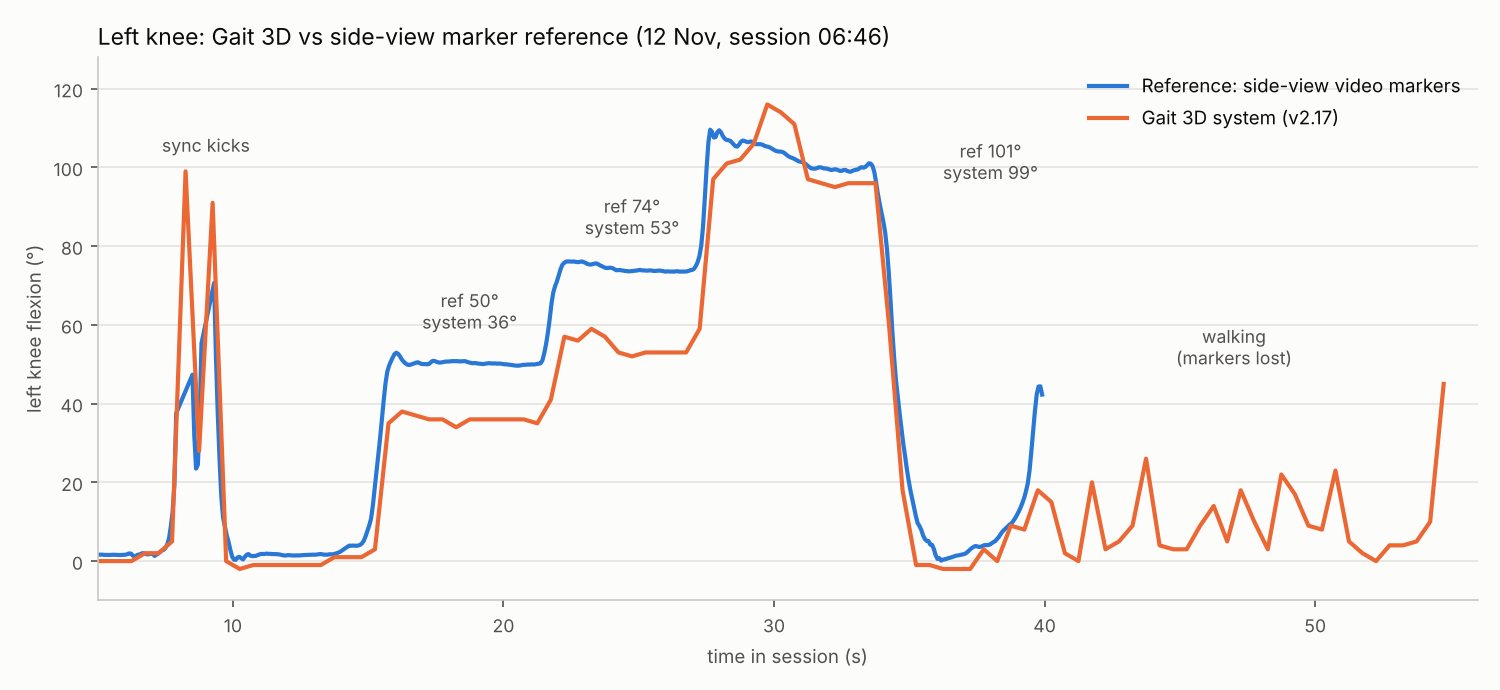
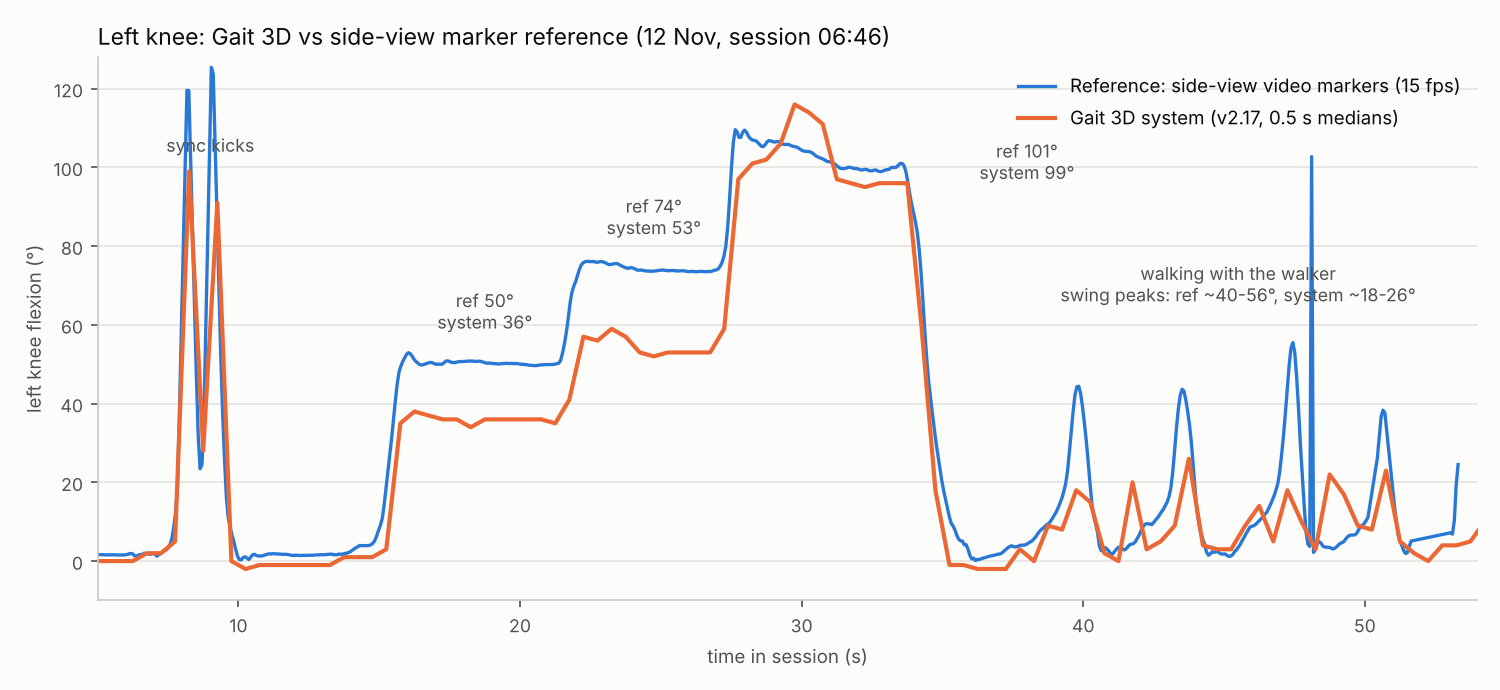
validation: walking now tracked (markers on dark fabric); swing peaks under-read ~50 %
Claude-Session: https://claude.ai/code/session_013HKQ94kXFs9QUfShXoLNG2

diff --git a/scripts/validate_markers_track.py b/scripts/validate_markers_track.py
@@ -1,36 +1,36 @@
-import cv2, numpy as np, json
+import cv2, numpy as np, json, itertools
 from validate_markers_detect import detect
 c = cv2.VideoCapture('v.mov'); fps = c.get(5)
-prev, rows, i = None, [], -1
+def pick(cand):
+    best = None
+    for tri in itertools.combinations(cand, 3):
+        H = min(tri, key=lambda p: p[1])                     # hip = highest marker
+        rest = [p for p in tri if p is not H]
+        K, A = sorted(rest, key=lambda p: np.hypot(p[0] - H[0], p[1] - H[1]))   # knee = nearer to hip
+        d1, d2 = np.hypot(K[0] - H[0], K[1] - H[1]), np.hypot(A[0] - K[0], A[1] - K[1])
+        if not (200 < d1 < 420 and 220 < d2 < 450) or K[1] - H[1] < 150:
+            continue
+        s = abs(d1 - 290) + abs(d2 - 340)
+        if best is None or s < best[0]:
+            best = (s, (H, K, A))
+    return None if best is None else best[1]
+rows, i = [], -1
 while True:
     ok, f = c.read(); i += 1
     if not ok: break
     if i % 2: continue
-    cand = [(x, y) for x, y, a, r in detect(f, 1250) if 150 <= a <= 650 and r < 65]
     t = i / fps
-    if prev is None:
-        if len(cand) == 3:
-            prev = sorted(cand, key=lambda p: p[1])
-        else:
-            rows.append((t, None)); continue
-    cur, okall = [], True
-    for p in prev:
-        if not cand: okall = False; cur.append(p); continue
-        d = [np.hypot(x - p[0], y - p[1]) for x, y in cand]
-        j = int(np.argmin(d))
-        if d[j] > 120: okall = False; cur.append(p)
-        else: cur.append(cand.pop(j))
-    if okall:
-        prev = cur
-        H, K, A = map(np.array, cur)
-        u, v = H - K, A - K
-        ang = np.degrees(np.arccos(np.clip(u @ v / np.linalg.norm(u) / np.linalg.norm(v), -1, 1)))
-        rows.append((t, 180 - ang, [list(map(float, p)) for p in cur]))
-    else:
-        rows.append((t, None))
-json.dump(rows, open('marker_angles.json', 'w'))
+    cand = [(x, y) for x, y, a in detect(f) if a <= 650]
+    tri = pick(cand)
+    if tri is None:
+        rows.append((t, None)); continue
+    H, K, A = map(np.array, tri)
+    u, v = H - K, A - K
+    rows.append((t, 180 - float(np.degrees(np.arccos(np.clip(u @ v / np.linalg.norm(u) / np.linalg.norm(v), -1, 1)))),
+                 [list(map(float, p)) for p in tri]))
+json.dump(rows, open('marker_angles3.json', 'w'))
 v = [r for r in rows if r[1] is not None]
-print('frames', len(rows), 'tracked', len(v), 'fps', fps)
-for s in range(0, int(rows[-1][0]) + 1, 1):
+print('frames', len(rows), 'tracked', len(v))
+for s in range(0, int(rows[-1][0]) + 1):
     b = [r[1] for r in v if s <= r[0] < s + 1]
-    print(f'{s:3d}s', f'{np.median(b):6.1f}' if b else '   -', end=' |' if s % 6 != 5 else '\n')
+    print(f'{s:3d}s', f'{np.median(b):6.1f}({len(b):2d})' if b else '     -    ', end=' |' if s % 6 != 5 else '\n')

diff --git a/scripts/validate_markers_detect.py b/scripts/validate_markers_detect.py
@@ -1,24 +1,25 @@
-import cv2, numpy as np, sys
-def detect(f, x0=1000):
-    roi = f[:, x0:]
-    hsv = cv2.cvtColor(roi, cv2.COLOR_BGR2HSV)
-    g = cv2.cvtColor(roi, cv2.COLOR_BGR2GRAY)
-    m = ((g > 170) & (hsv[..., 1] < 70)).astype(np.uint8)
+import cv2, numpy as np
+def detect(f):
+    """white tape squares on dark trousers: bright, unsaturated, compact blobs whose
+    whole neighbourhood (+-22 px) is dark fabric"""
+    hsv = cv2.cvtColor(f, cv2.COLOR_BGR2HSV)
+    g = cv2.cvtColor(f, cv2.COLOR_BGR2GRAY)
+    m = ((g > 160) & (hsv[..., 1] < 80)).astype(np.uint8)
     n, lab, st, cen = cv2.connectedComponentsWithStats(m, 8)
     out = []
     for i in range(1, n):
         x, y, w, h, a = st[i]
-        if not (12 <= a <= 900) or w > 45 or h > 45 or max(w, h) > 3 * min(w, h):
+        if not (100 <= a <= 800) or max(w, h) > 2.2 * min(w, h) or a < 0.5 * w * h:
             continue
-        y0, y1, xa, xb = max(0, y - 8), min(g.shape[0], y + h + 8), max(0, x - 8), min(g.shape[1], x + w + 8)
-        patch = g[y0:y1, xa:xb].astype(float)
-        mask = m[y0:y1, xa:xb] == 0
-        ring = patch[mask]
-        if ring.size and np.median(ring) < 90:
-            out.append((cen[i][0] + x0, cen[i][1], a, float(np.median(ring))))
+        P = 22
+        y0, y1, xa, xb = max(0, y - P), min(g.shape[0], y + h + P), max(0, x - P), min(g.shape[1], x + w + P)
+        ring = g[y0:y1, xa:xb][lab[y0:y1, xa:xb] != i]
+        if ring.size and np.percentile(ring, 85) < 75:
+            out.append((float(cen[i][0]), float(cen[i][1]), int(a)))
     return out
 if __name__ == '__main__':
+    import sys
     c = cv2.VideoCapture('v.mov')
     for t in map(float, sys.argv[1:]):
         c.set(cv2.CAP_PROP_POS_MSEC, t * 1000); ok, f = c.read()
-        print(t, [(round(x), round(y), a, round(r)) for x, y, a, r in detect(f)])
+        print(t, [(round(x), round(y), a) for x, y, a in detect(f)])

diff --git a/validation/README.md b/validation/README.md
@@ -15,5 +15,8 @@ in `sys_L.txt`.
 | Hold ~101 deg | 101.4 | 99.0 | -2.4 | 7.4 |
 | Standing after | 1.7 | -2.0 | -3.7 | 0.4 |
 
-Walking could not be validated: the markers were lost once the subject moved with the walker.
+Walking (10 steps with the walker, 29 half-second bins): mean difference -3.7 deg, mean |difference| 7.6 deg,
+correlation 0.61. Step timing is captured, but swing peaks are **under-read by about half**: reference
+~40-56 deg per step, system ~18-26 deg. (First tracker version lost the markers while walking: it only searched
+the right part of the image and never re-acquired; v2 detector = white squares fully surrounded by dark fabric.)
 ![left knee](validation_left_knee.png)
